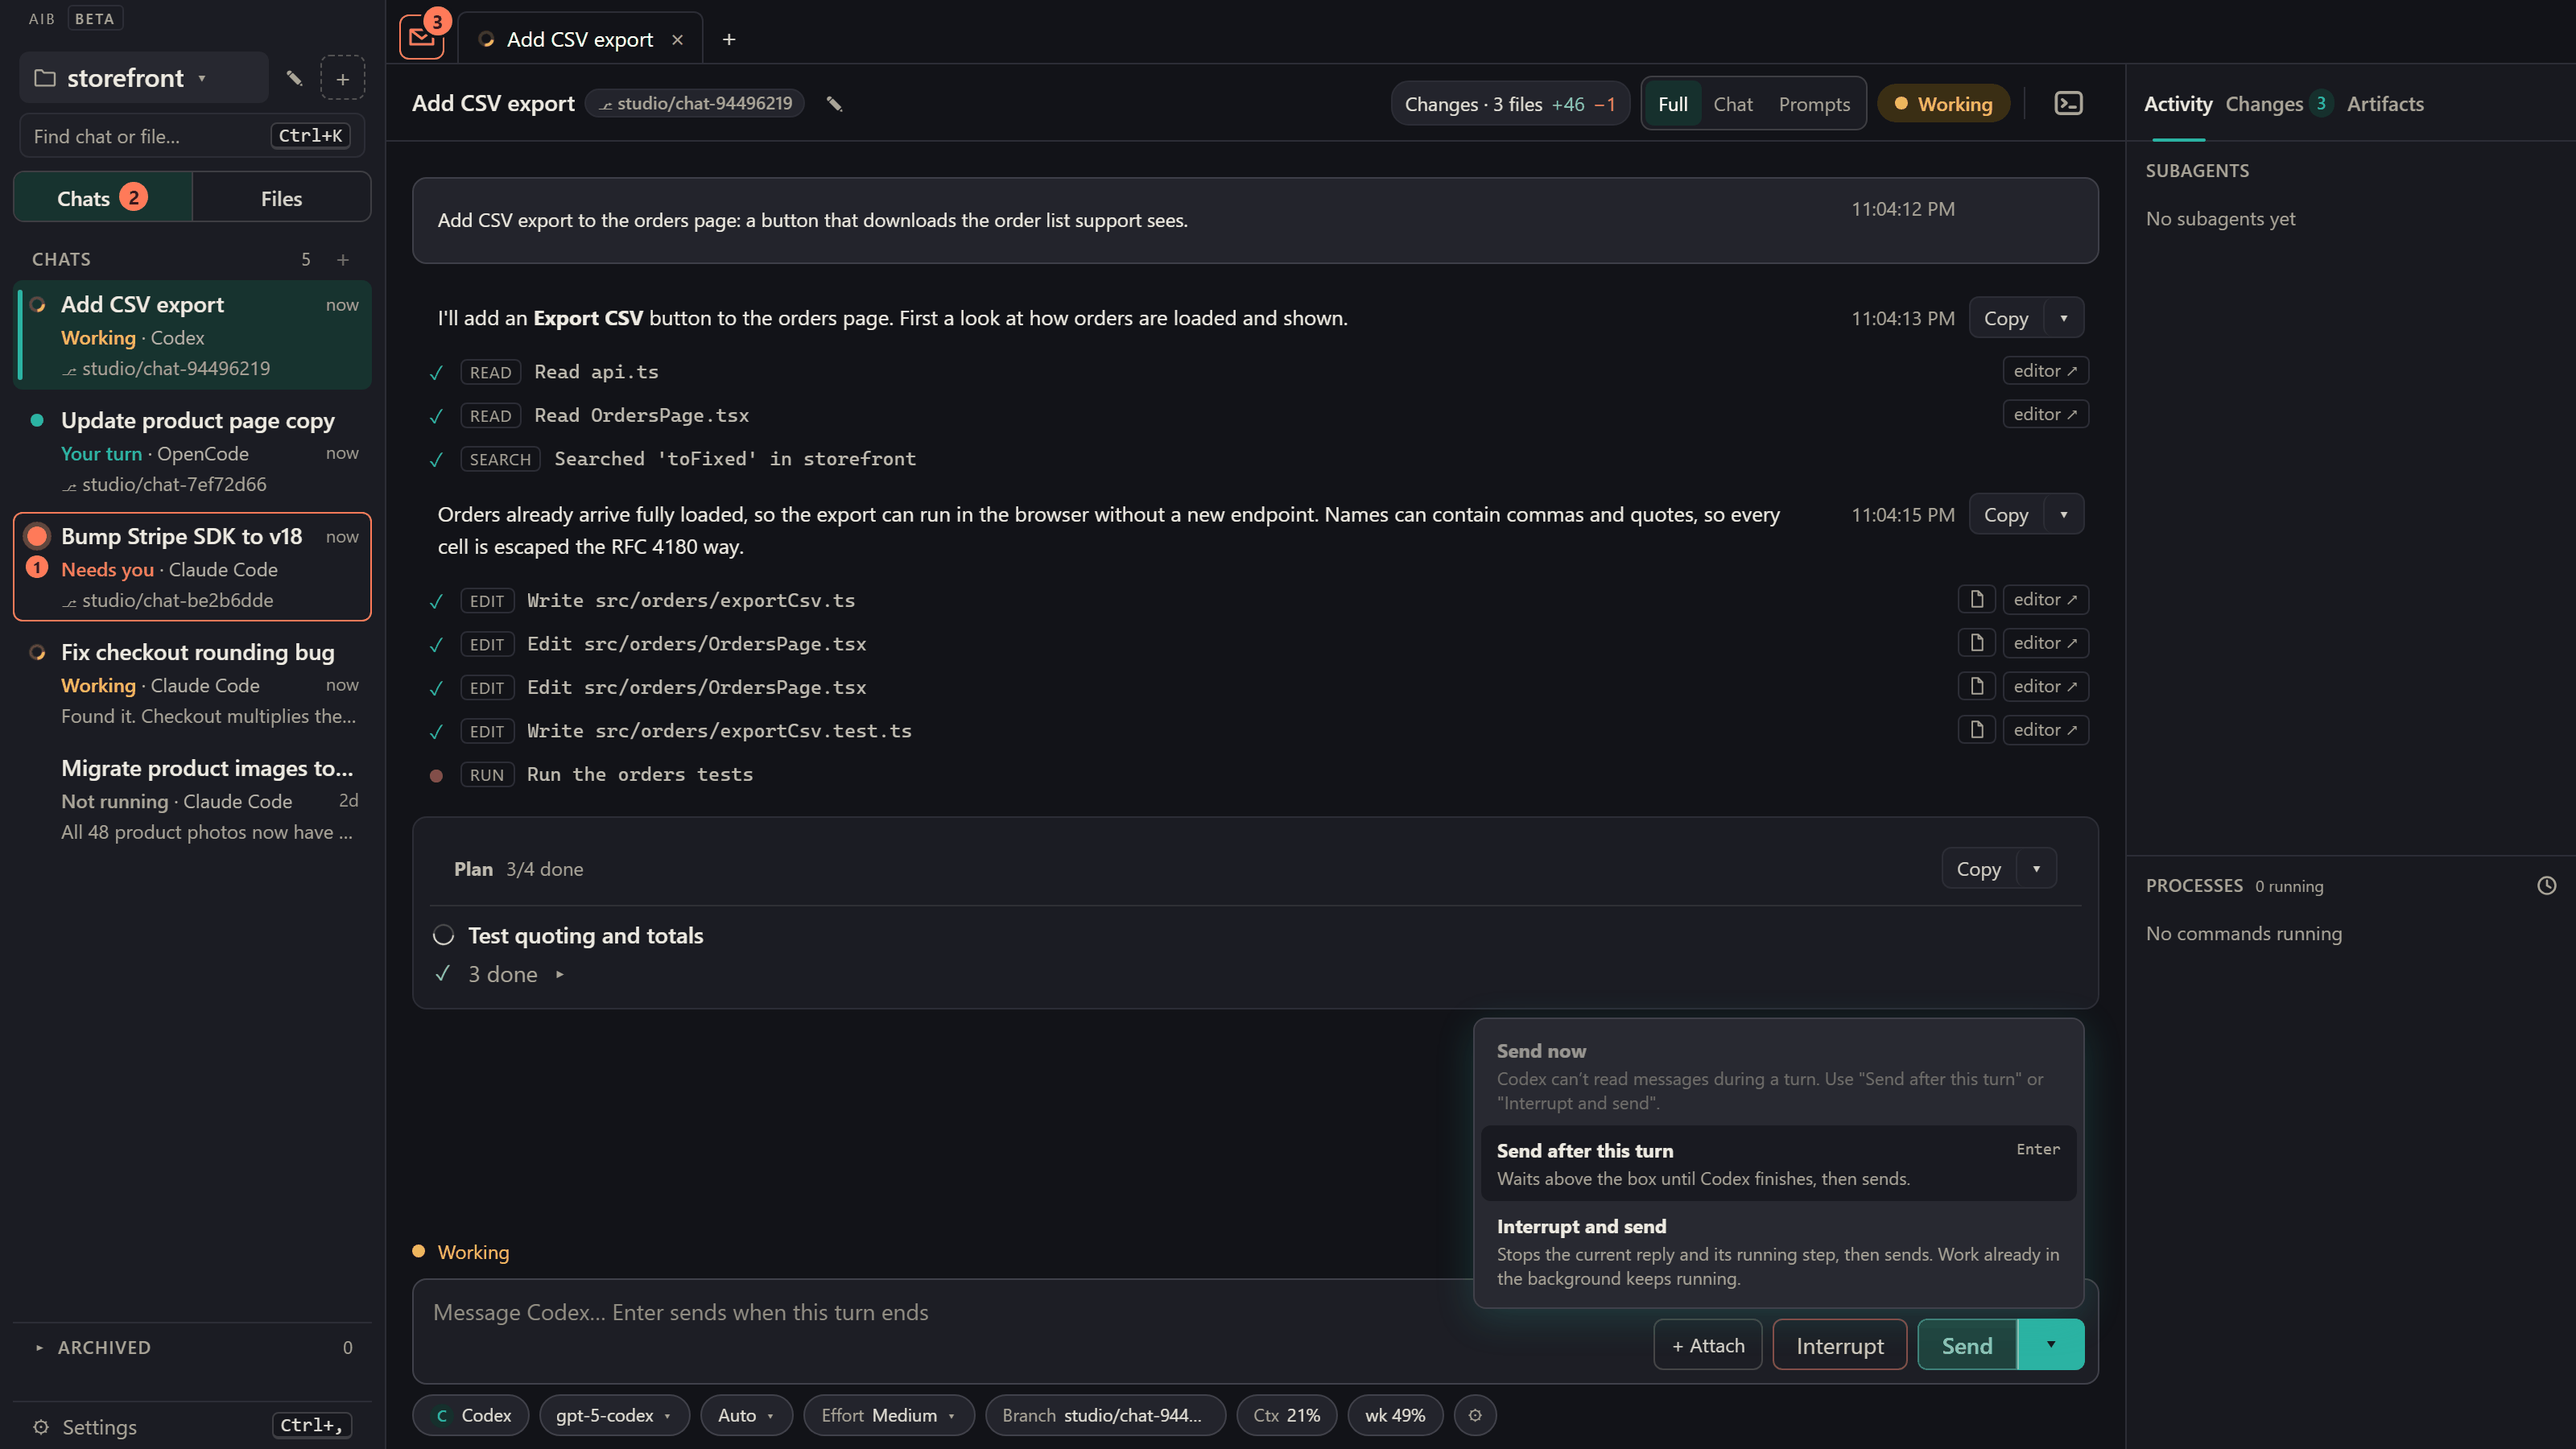
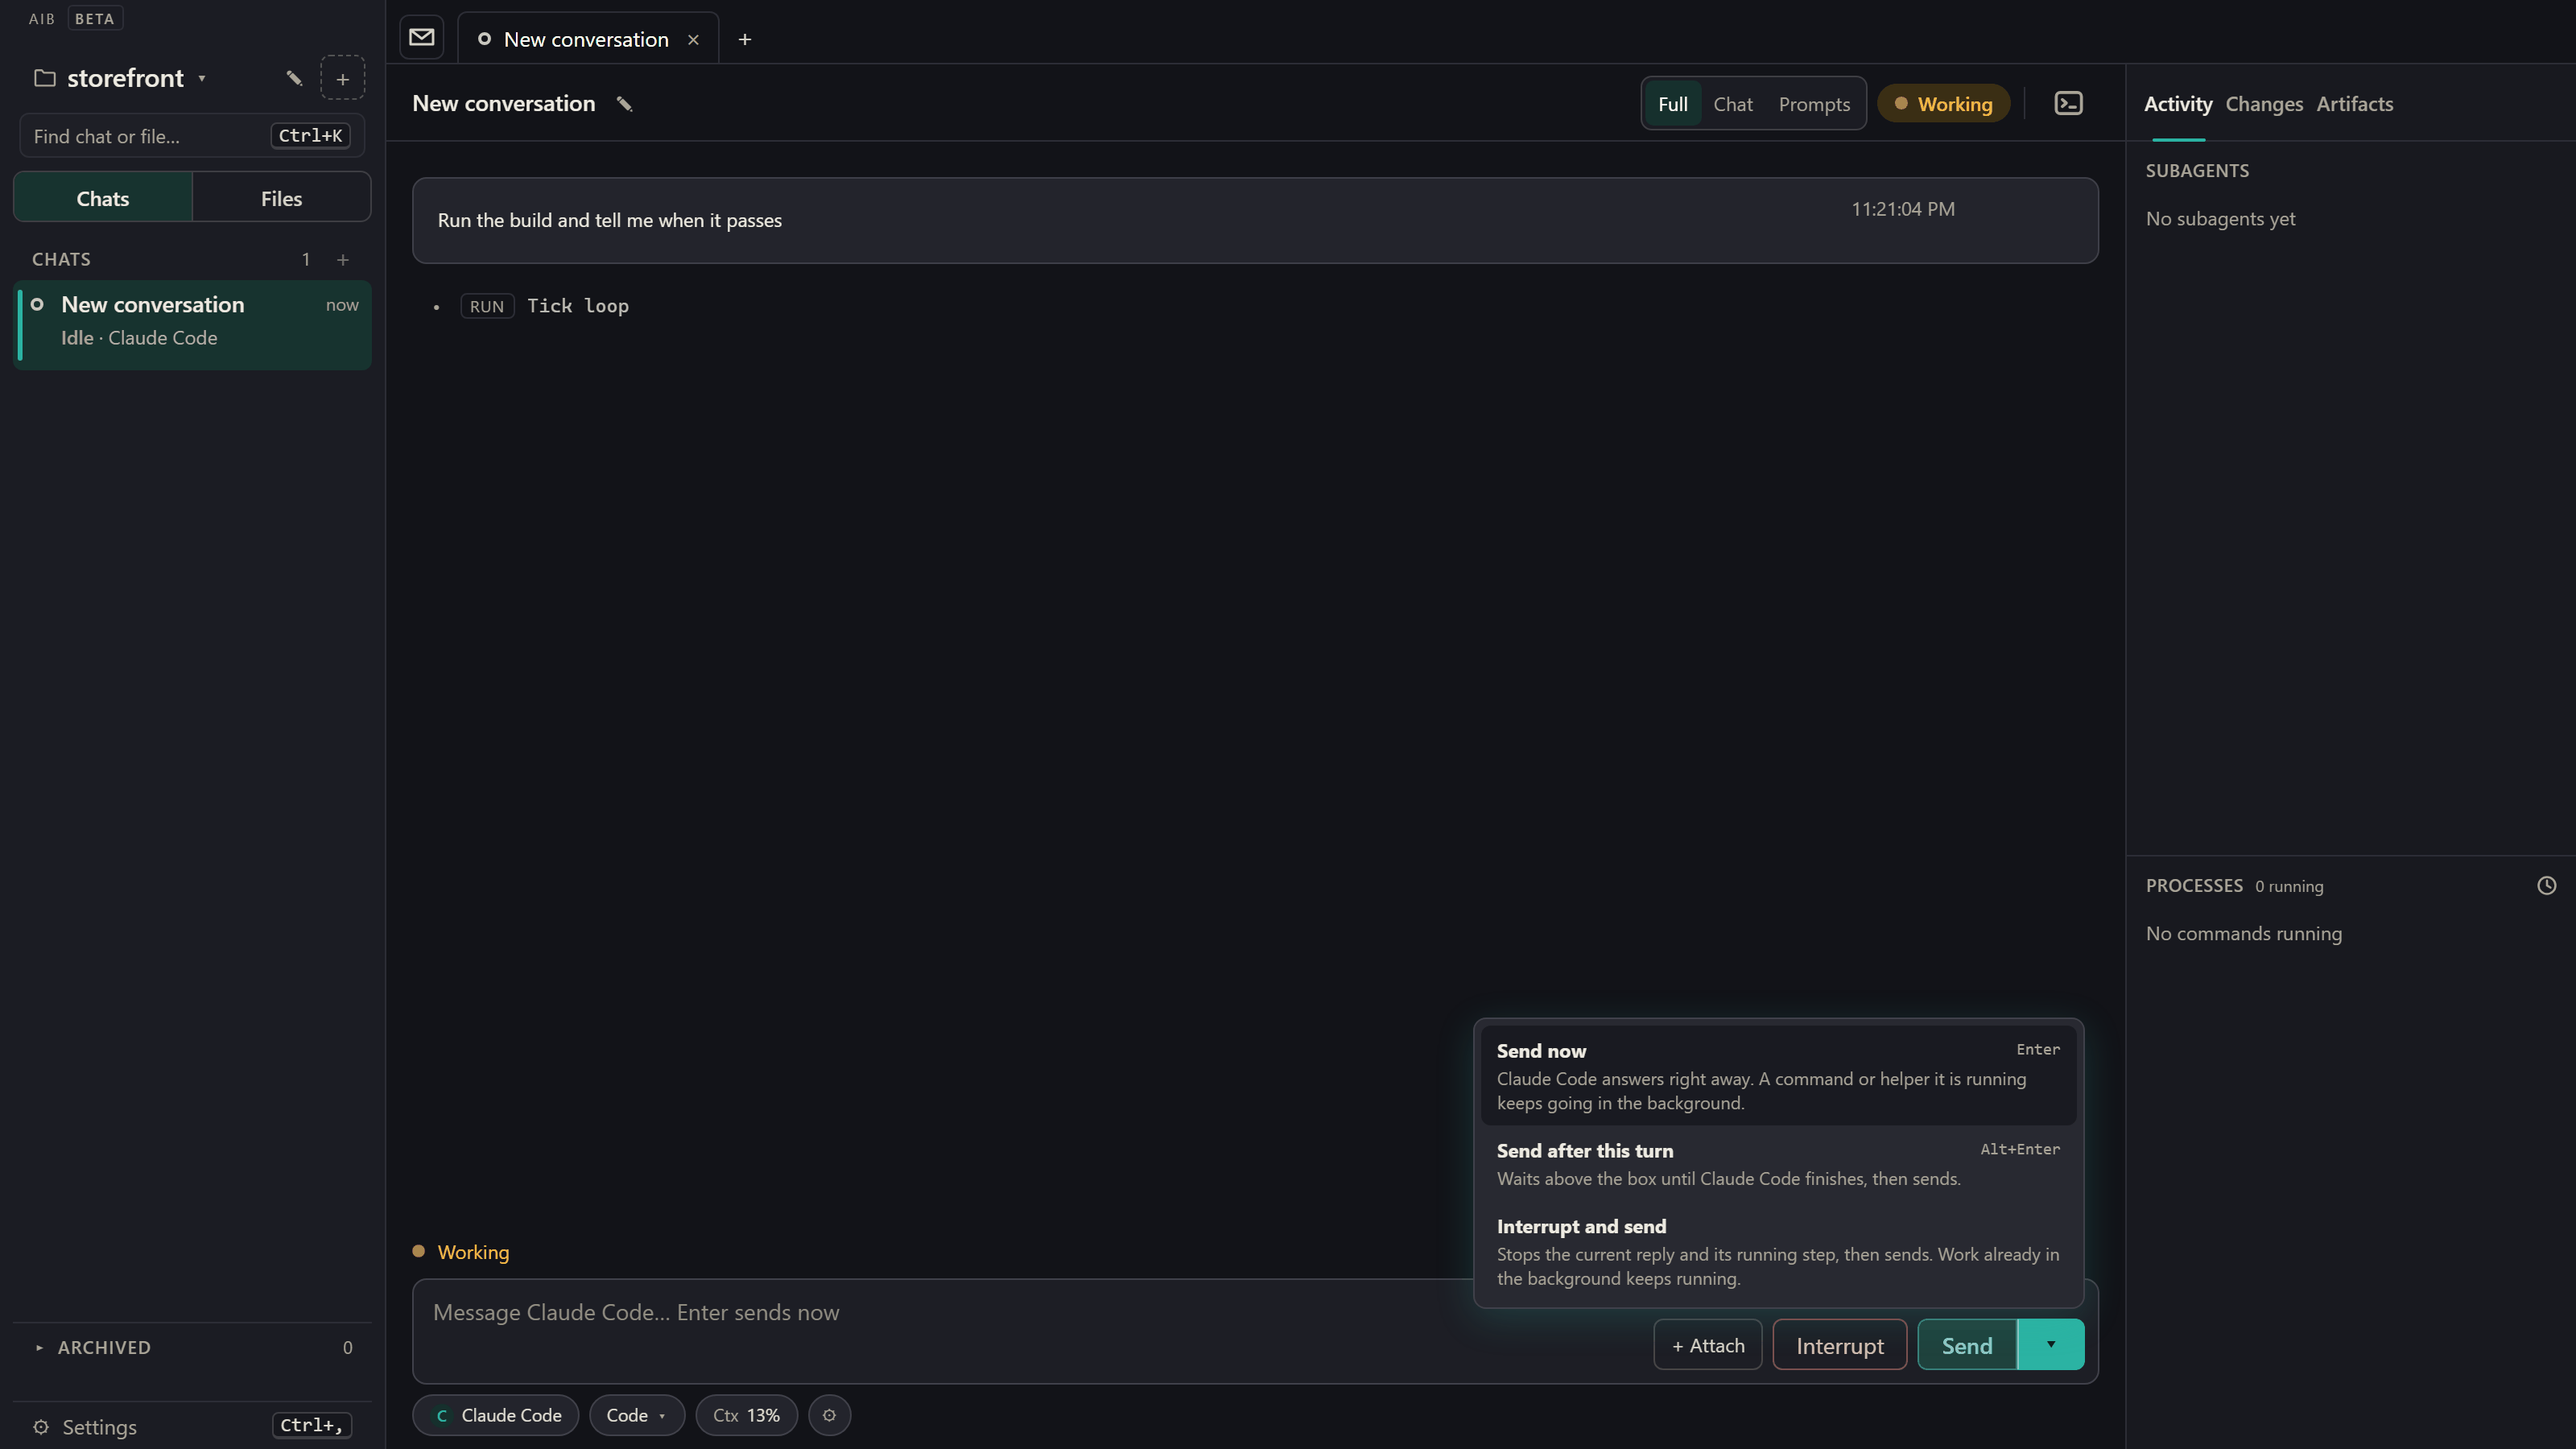
Site screenshots: steering Send menu recaptured with a steerable agent (Claude Code, steer lab)

diff --git a/work/site-shots/steer_lab.ts b/work/site-shots/steer_lab.ts
@@ -20,6 +20,13 @@ for (const theme of THEMES) {
     await sleep(1500);
     await tidy(page);
     await shot(page, `steering-working-command-${tag}`);
+    await page.waitFor(`[...document.querySelectorAll('#promptForm [aria-haspopup]')].some((e) => e.getBoundingClientRect().width > 0)`, 15000, 'the menu button');
+    await page.click('#promptForm [aria-haspopup]');
+    await page.waitFor(`!!document.querySelector('[role=menu]:not([hidden])')`, 4000, 'the menu');
+    await tidy(page);
+    await shot(page, `steering-send-menu-${tag}`);
+    await page.key('Escape');
+    await page.waitFor(`!document.querySelector('[role=menu]:not([hidden])')`, 4000, 'the menu closed');
     await chat.steer('what is 2+2?', 'b-1');
     await until(async () => (await backgroundOf(chat, 'toolu_steer_bash'))?.state === 'running', 'background', 30);
     await sleep(2500);
